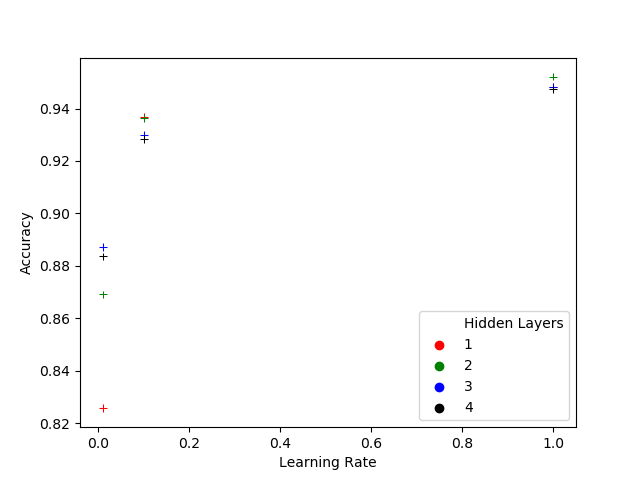
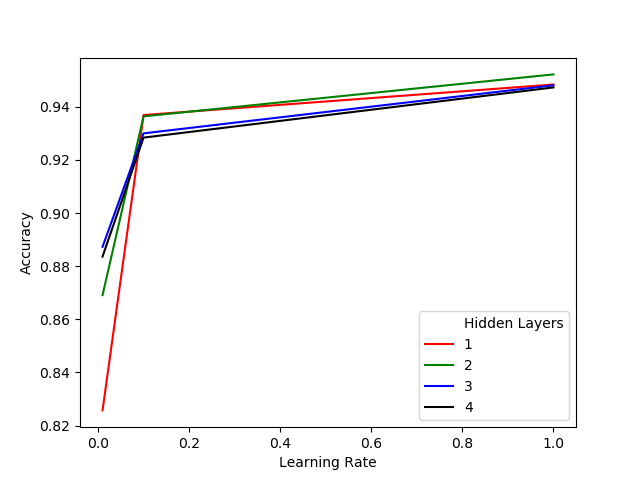
adding parallel graphs and automatazing plot gen script

diff --git a/MiniProjeto1/reconhecimento/src/load_plots.py b/MiniProjeto1/reconhecimento/src/load_plots.py
@@ -13,5 +13,5 @@ if __name__ == '__main__':
             df = pd.read_csv(fileName)
             b_size = pow(2,int(batchSizeIndex)+2)
             data = df[df['Batch Size']==b_size]
-            sns.scatterplot(x='Learning Rate', y='Accuracy', hue='Hidden Layers', s=30, palette=['red','green','blue', 'black'], data=data, marker="+", legend="full")
+            sns.lineplot(x='Learning Rate', y='Accuracy', hue='Hidden Layers', palette=['red','green','blue', 'black'], data=data)
             plt.savefig('Graphs/' + fileName + ' - ' + 'Batch'+str(b_size)+'.png')
